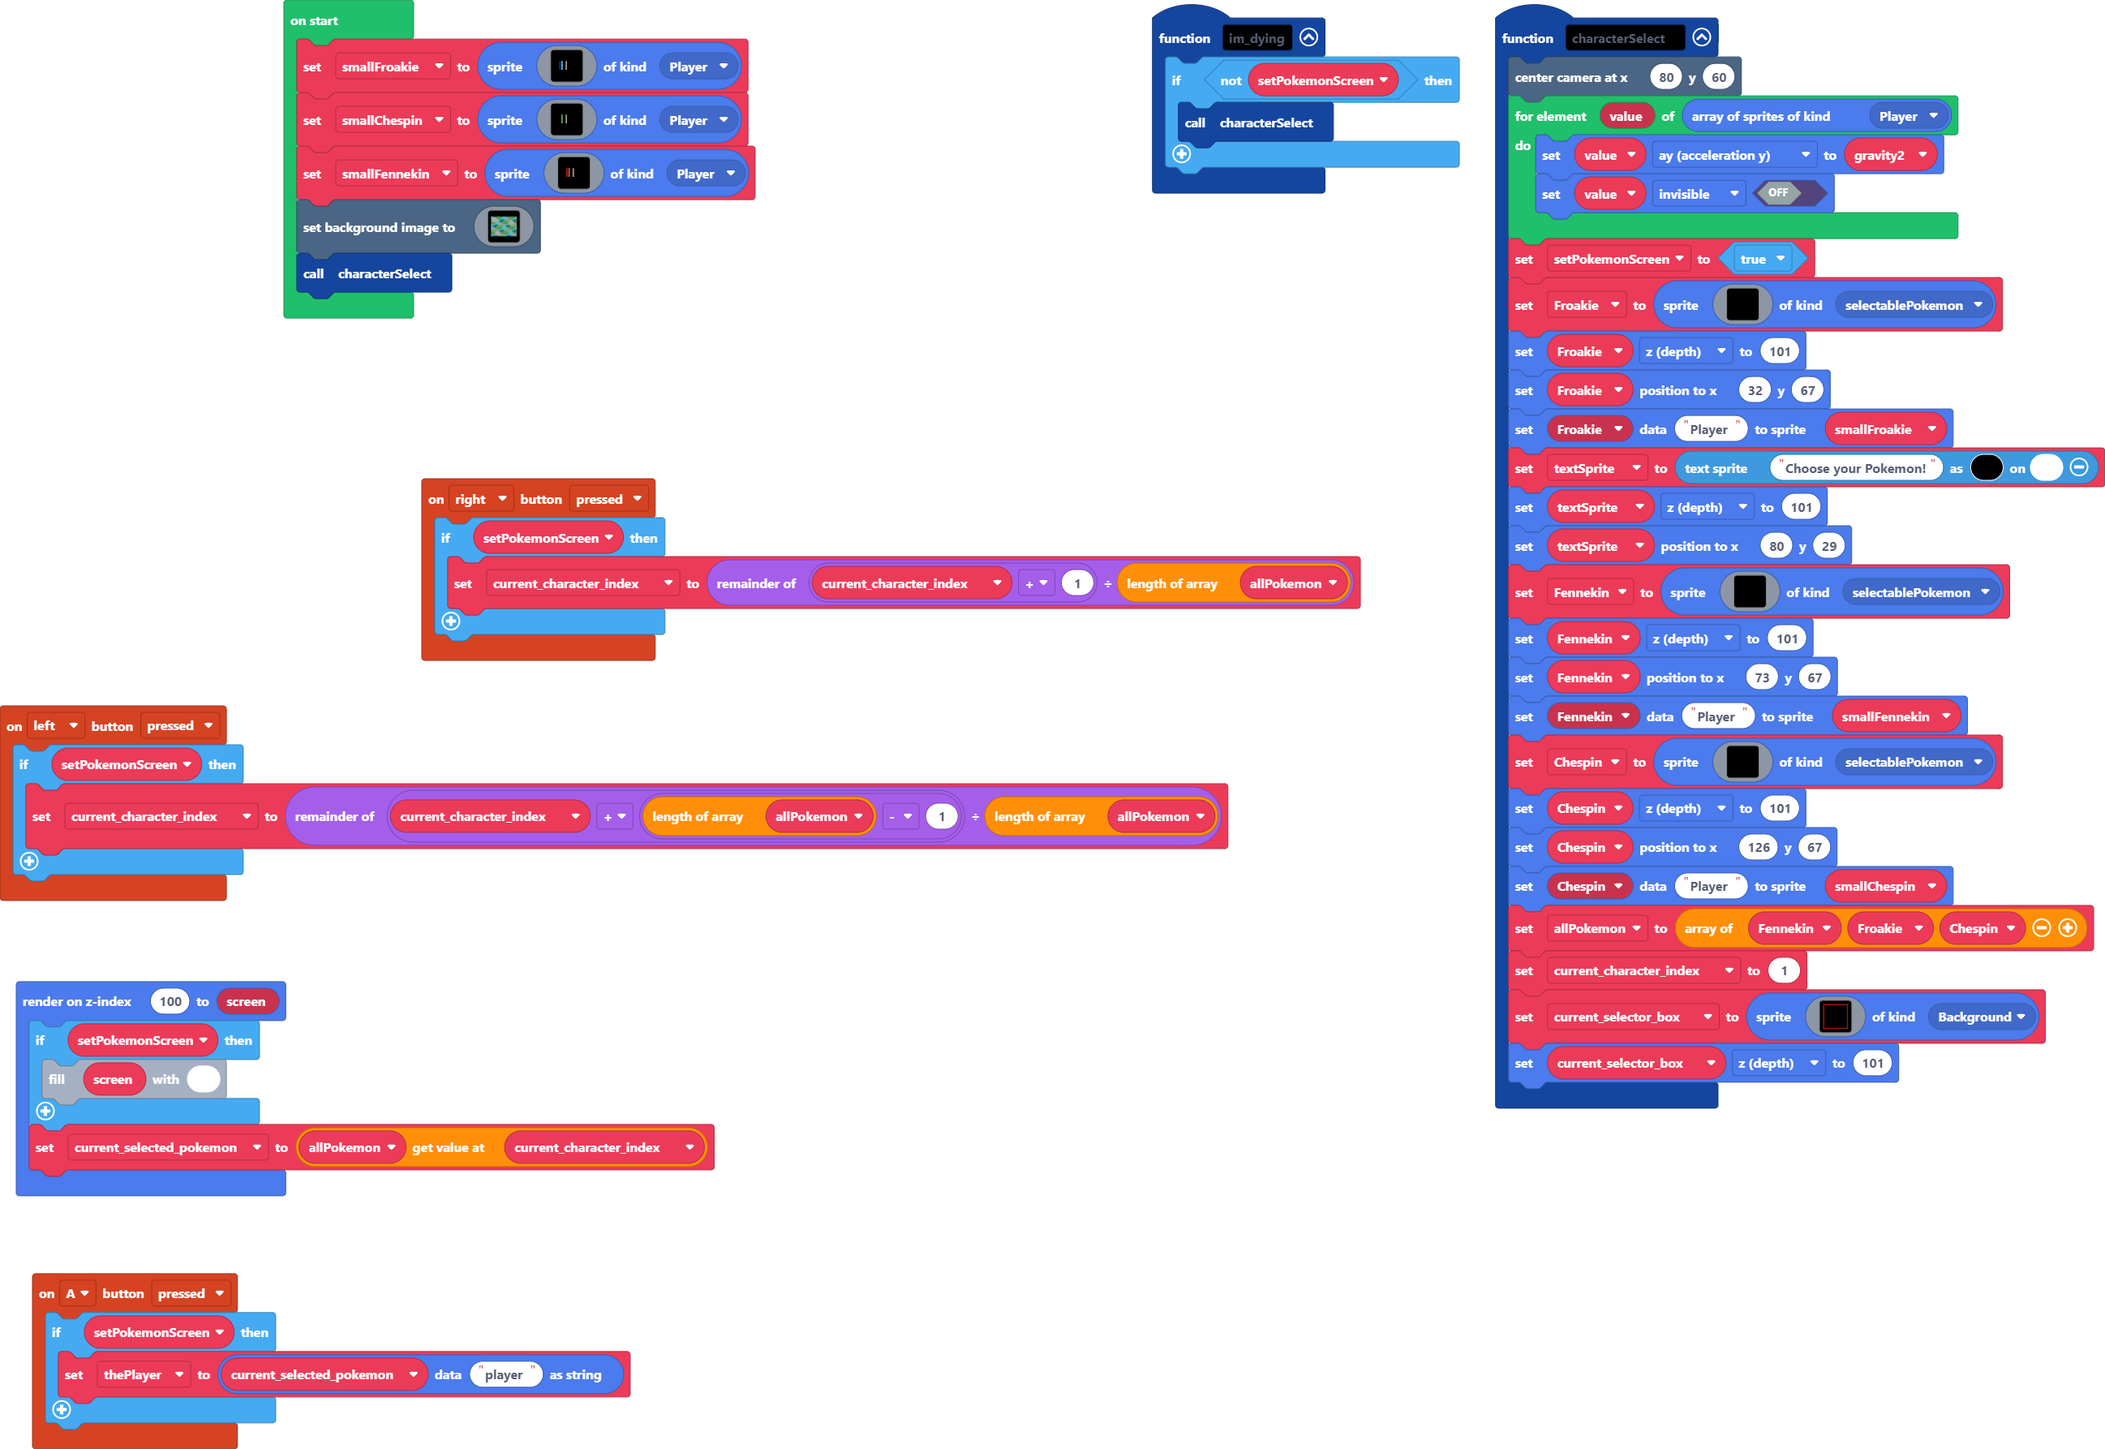
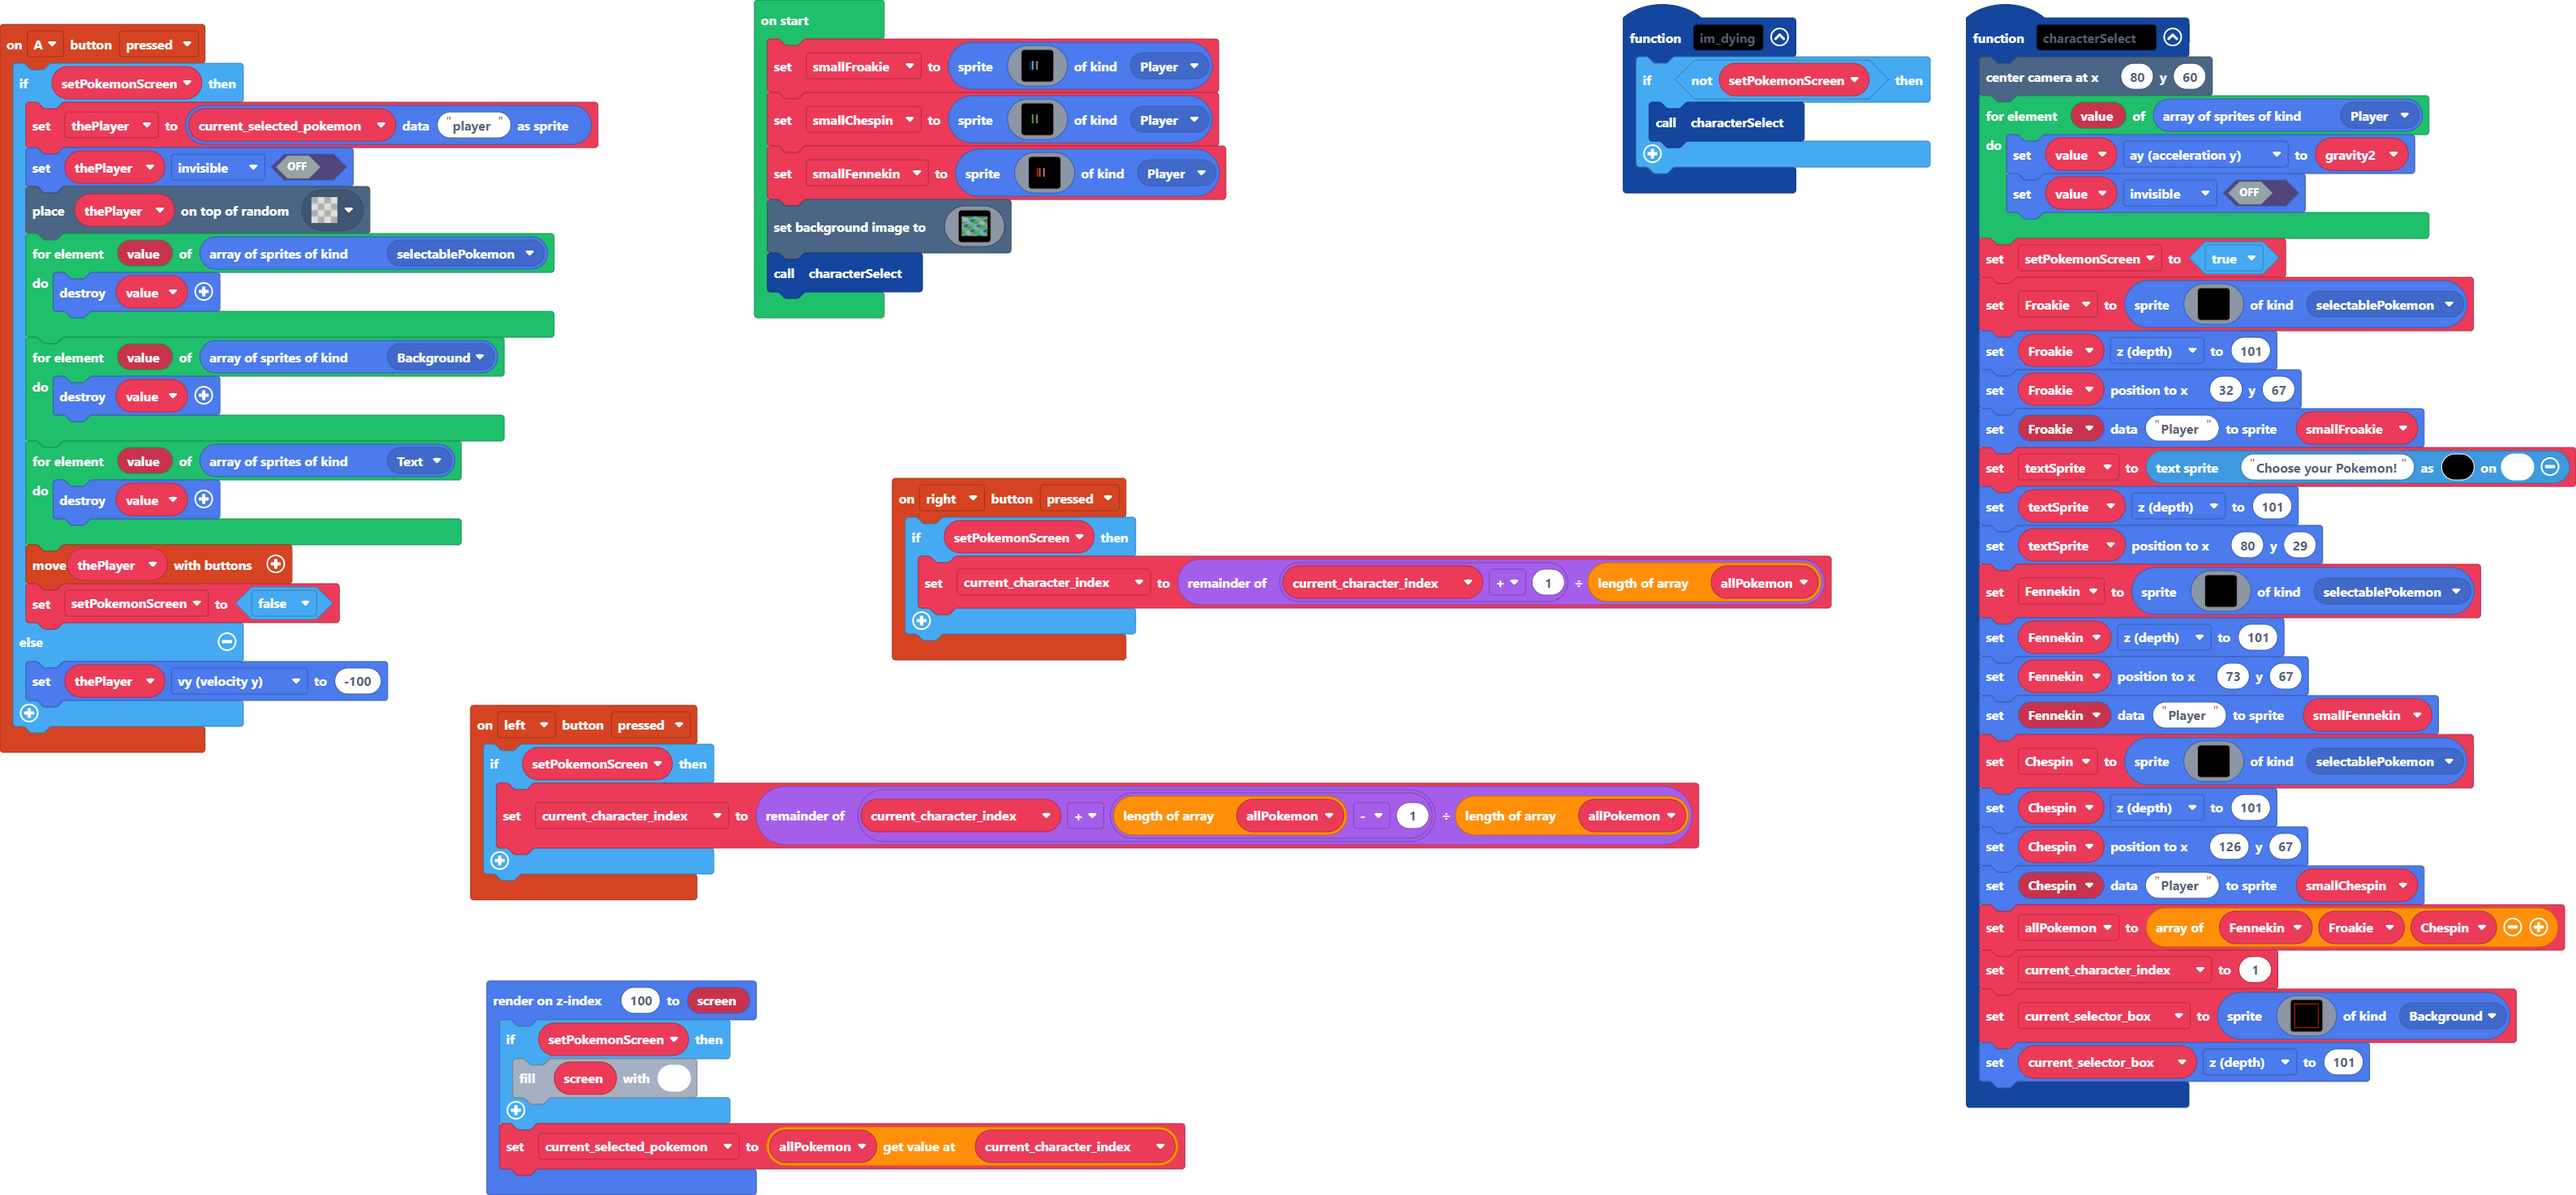
Update main.blocks, main.ts

diff --git a/main.ts b/main.ts
@@ -9,7 +9,22 @@ function im_dying () {
 }
 controller.A.onEvent(ControllerButtonEvent.Pressed, function () {
     if (setPokemonScreen) {
-        thePlayer = sprites.readDataString(current_selected_pokemon, "player")
+        thePlayer = sprites.readDataSprite(current_selected_pokemon, "player")
+        thePlayer.setFlag(SpriteFlag.Invisible, false)
+        tiles.placeOnRandomTile(thePlayer, assets.tile`transparency16`)
+        for (let value of sprites.allOfKind(SpriteKind.selectablePokemon)) {
+            value.destroy()
+        }
+        for (let value of sprites.allOfKind(SpriteKind.Background)) {
+            value.destroy()
+        }
+        for (let value of sprites.allOfKind(SpriteKind.Text)) {
+            value.destroy()
+        }
+        controller.moveSprite(thePlayer)
+        setPokemonScreen = false
+    } else {
+        thePlayer.vy = -100
     }
 })
 controller.left.onEvent(ControllerButtonEvent.Pressed, function () {
@@ -152,7 +167,7 @@ let Froakie: Sprite = null
 let allPokemon: Sprite[] = []
 let current_character_index = 0
 let current_selected_pokemon: Sprite = null
-let thePlayer = ""
+let thePlayer: Sprite = null
 let setPokemonScreen = false
 let smallFennekin: Sprite = null
 let smallChespin: Sprite = null
